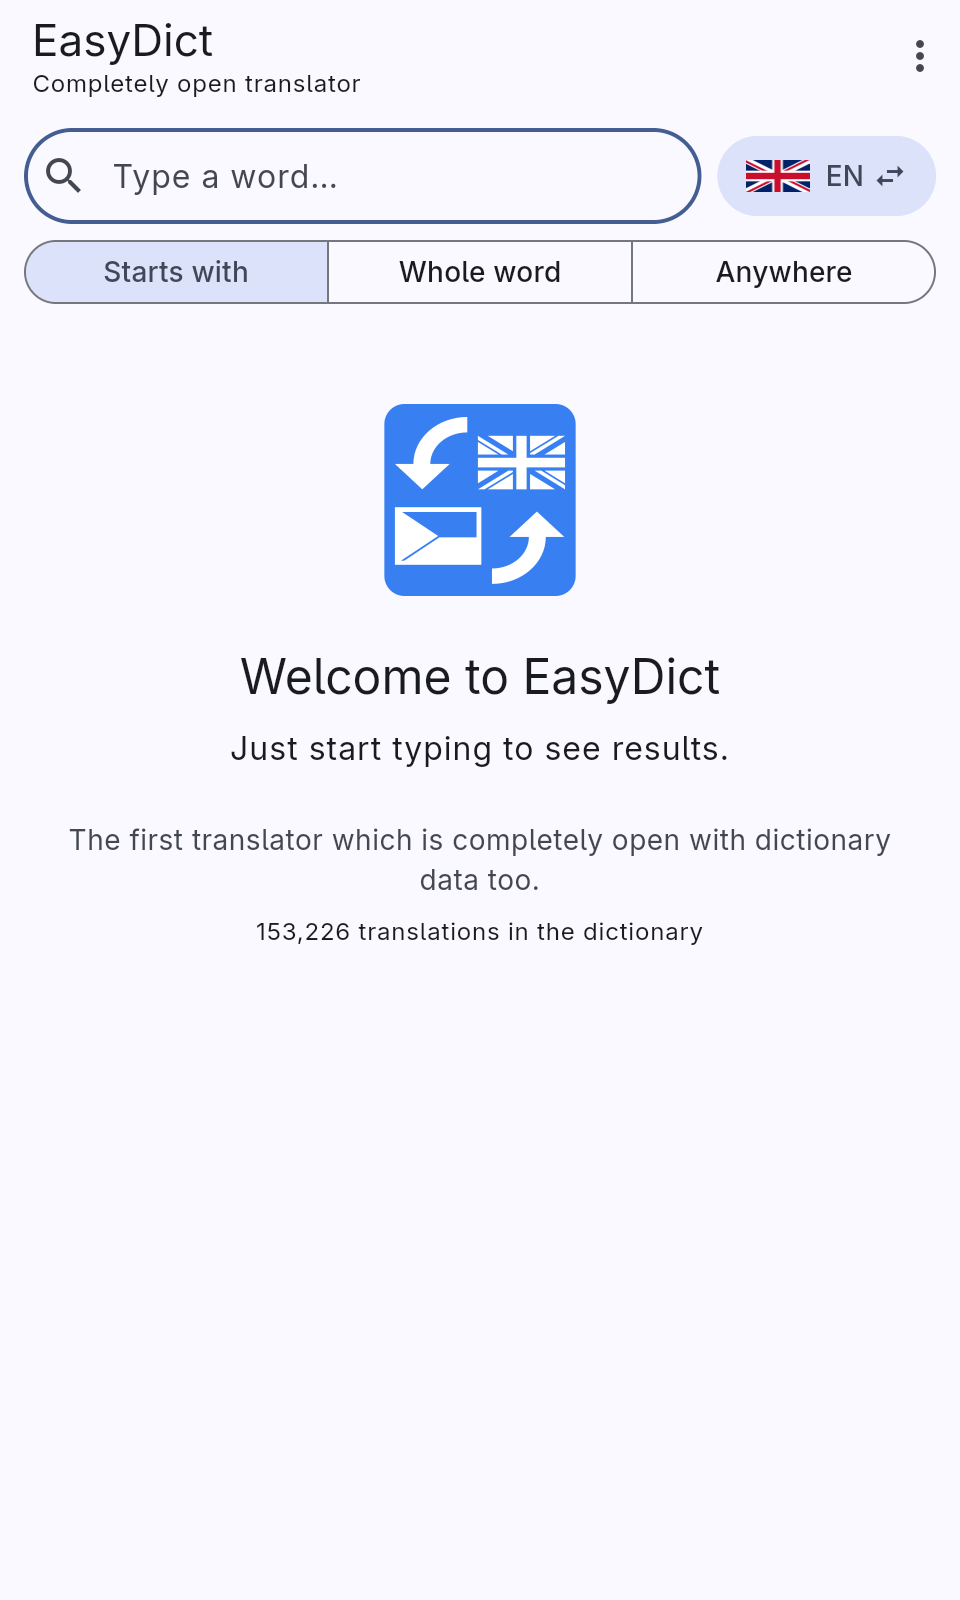
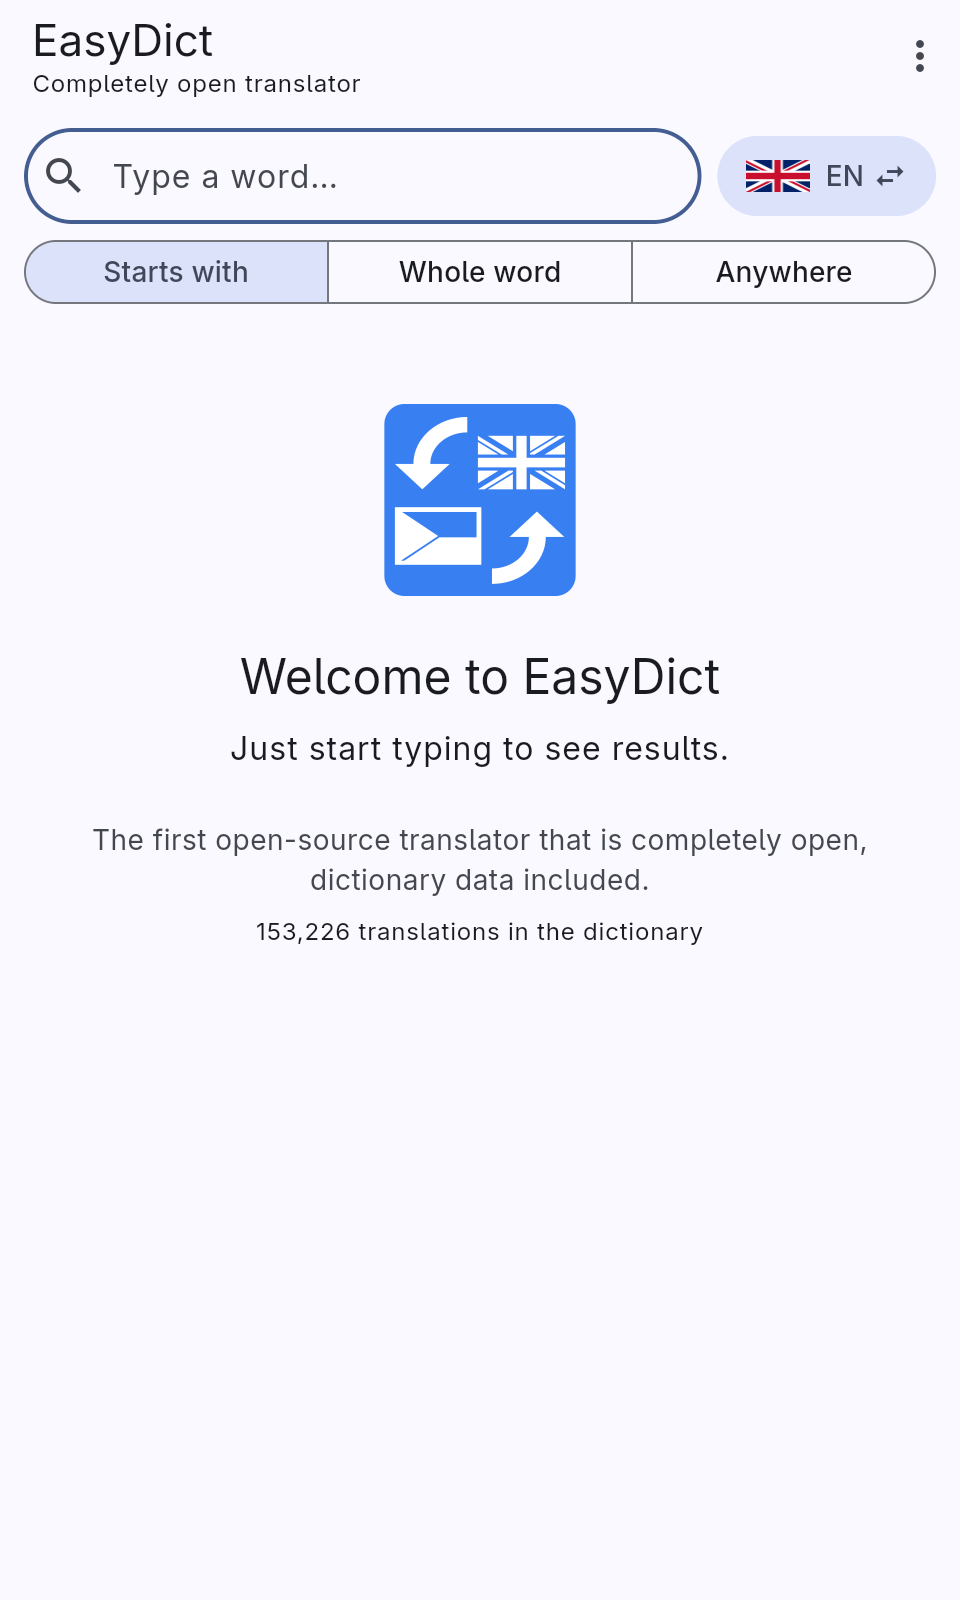
Polish the docs and store listings after the review
- "in other forms" instead of the promise of "any form"
- root-relative paths in the release and data steps
- the website import only adds records: how to refresh the data
- wordfreq in the licence overview
- Czech release notes and screenshots in the AppStream metadata, Czech
  typography in the store texts, new screenshots of the start page
- the Flatpak installs the complete licence notice of the dictionary

Changed region(s): [[0.0938, 0.5, 0.9062, 0.5625]]

diff --git a/packaging/README.md b/packaging/README.md
@@ -7,23 +7,24 @@
 
 ## Making a release
 
+All paths are relative to the root of the repository.
+
 1. Raise the version in `app/pubspec.yaml` (`1.0.1+2`: the number after `+` must grow) and `app/lib/version.dart`.
-2. Add the release with its date to `linux/one.jiri.easydict.metainfo.xml` and a changelog `app/fastlane/metadata/android/{en-US,cs-CZ}/changelogs/<number after +>.txt`.
+2. Add the release with its date to `packaging/linux/one.jiri.easydict.metainfo.xml` and a changelog `app/fastlane/metadata/android/{en-US,cs-CZ}/changelogs/<number after +>.txt`.
 3. Commit, tag and push: `git tag v1.0.1 && git push origin main v1.0.1`. The `Release` workflow builds Linux, Windows, macOS and Android and publishes a GitHub release.
-4. Flathub: in `flatpak/flatpak-flutter.yml`, point the app source to the new tag (`tag: v1.0.1` instead of `branch`), then run
+4. Flathub: in `packaging/flatpak/flatpak-flutter.yml`, point the app source to the new tag (`tag: v1.0.1` instead of `branch`), then generate the offline manifest and check it:
 
+       cd packaging/flatpak
        flatpak-flutter.py flatpak-flutter.yml
-
-   and copy the generated `one.jiri.easydict.yml` and `generated/` to the Flathub repository of the app. Check the build with
-
        flatpak run --command=flathub-build org.flatpak.Builder --install one.jiri.easydict.yml
        flatpak run --command=flatpak-builder-lint org.flatpak.Builder manifest one.jiri.easydict.yml
        flatpak run --command=flatpak-builder-lint org.flatpak.Builder repo repo
 
+   Copy the generated `one.jiri.easydict.yml` and `generated/` to the Flathub repository of the app.
 5. F-Droid picks new tags up by itself (`UpdateCheckMode: Tags`).
 
 ## First submission
 
 **Flathub:** fork `flathub/flathub`, branch off `new-pr`, add `one.jiri.easydict.yml` and `generated/`, and open a pull request against `new-pr` titled `Add one.jiri.easydict`. After approval, accept the invitation to the new repository within a week (GitHub 2FA is required). The app ID is under the jiri.one domain; Flathub verifies it with a token served at `https://jiri.one/.well-known/org.flathub.VerifiedApps.txt`.
 
-**F-Droid:** fork `fdroid/fdroiddata` on GitLab, add `fdroid/one.jiri.easydict.yml` as `metadata/one.jiri.easydict.yml` and open a merge request. The descriptions and screenshots come from `app/fastlane/`.
+**F-Droid:** fork `fdroid/fdroiddata` on GitLab, add `packaging/fdroid/one.jiri.easydict.yml` as `metadata/one.jiri.easydict.yml` and open a merge request. The descriptions and screenshots come from `app/fastlane/`.

diff --git a/README.md b/README.md
@@ -1,8 +1,8 @@
 # EasyDict
 
-The first open source translator which is completely open with dictionary data too.
+The first open-source translator that is completely open, dictionary data included.
 
-EasyDict is an English–Czech and Czech–English dictionary that works offline on Linux, Windows, macOS and Android, and a website at [easydict.jiri.one](https://easydict.jiri.one). It contains more than 150,000 translations of the free English–Czech dictionary of the Svobodné slovníky project and finds Czech words in any form (*psa* → *pes*).
+EasyDict is an English–Czech and Czech–English dictionary that works offline on Linux, Windows, macOS and Android, and a website at [easydict.jiri.one](https://easydict.jiri.one). It contains more than 150,000 translations of the free English–Czech dictionary of the Svobodné slovníky project and also finds Czech words typed in other forms (*psa* → *pes*).
 
 ## Download
 
@@ -39,6 +39,7 @@ You need [Flutter](https://docs.flutter.dev/get-started/install) 3.47 and Python
 - the app and the website: GNU GPL 3
 - the dictionary (`data/en-cs/`): GNU FDL 1.1 or later
 - Czech word forms (`data/cs-forms/`): GNU GPL 2 (Hunspell) and CC BY-SA 4.0 (Wiktionary)
+- word frequencies (`data/frequency/`): CC BY-SA 4.0 (wordfreq)
 
 ## History
 
@@ -46,4 +47,4 @@ EasyDict started in 2020 as a desktop app in Python and GTK 3, published on PyPI
 
 ---
 
-**Česky:** EasyDict je anglicko-český a česko-anglický slovník pro Linux, Windows, macOS a Android, který funguje bez internetu, a web [easydict.jiri.one](https://easydict.jiri.one). Obsahuje přes 150 000 překladů ze svobodného slovníku projektu Svobodné slovníky, jehož data se nyní spravují tady v adresáři `data/`, a česká slova najde v jakémkoli tvaru. Začínal v roce 2020 jako aplikace v Pythonu a GTK, jejíž poslední verze s GTK 4 zůstává v repozitáři [easydict-gtk](https://github.com/jiri-one/easydict-gtk).
+**Česky:** EasyDict je anglicko-český a česko-anglický slovník pro Linux, Windows, macOS a Android, který funguje bez internetu, a web [easydict.jiri.one](https://easydict.jiri.one). Obsahuje přes 150 000 překladů ze svobodného slovníku projektu Svobodné slovníky, jehož data se nyní spravují tady v adresáři `data/`, a česká slova najde i v jiných tvarech. Začínal v roce 2020 jako aplikace v Pythonu a GTK, jejíž poslední verze s GTK 4 zůstává v repozitáři [easydict-gtk](https://github.com/jiri-one/easydict-gtk).

diff --git a/web/README.md b/web/README.md
@@ -1,6 +1,9 @@
 # EasyDict website
 The website of the EasyDict project, [https://easydict.jiri.one](https://easydict.jiri.one): Django (Python) as the backend and some pure JavaScript as the frontend.
 
-The dictionary data come from `data/en-cs/en-cs.txt` of this repository. To load them into the database, run `python utils/from_txt_to_django.py` in this directory.
+The dictionary data come from `data/en-cs/en-cs.txt` of this repository. To load them into an empty database, run `python utils/from_txt_to_django.py` in this directory. The script only adds records, it does not update existing ones; to refresh the data, delete the old records first:
+
+    python manage.py shell -c "from web.models import Record; Record.objects.all().delete()"
+    python utils/from_txt_to_django.py
 
 The production image is built from `deploy/Containerfile` by the `Website image` workflow on every change of `web/` on `main` and published as `ghcr.io/jiri-one/easydict-web`.
